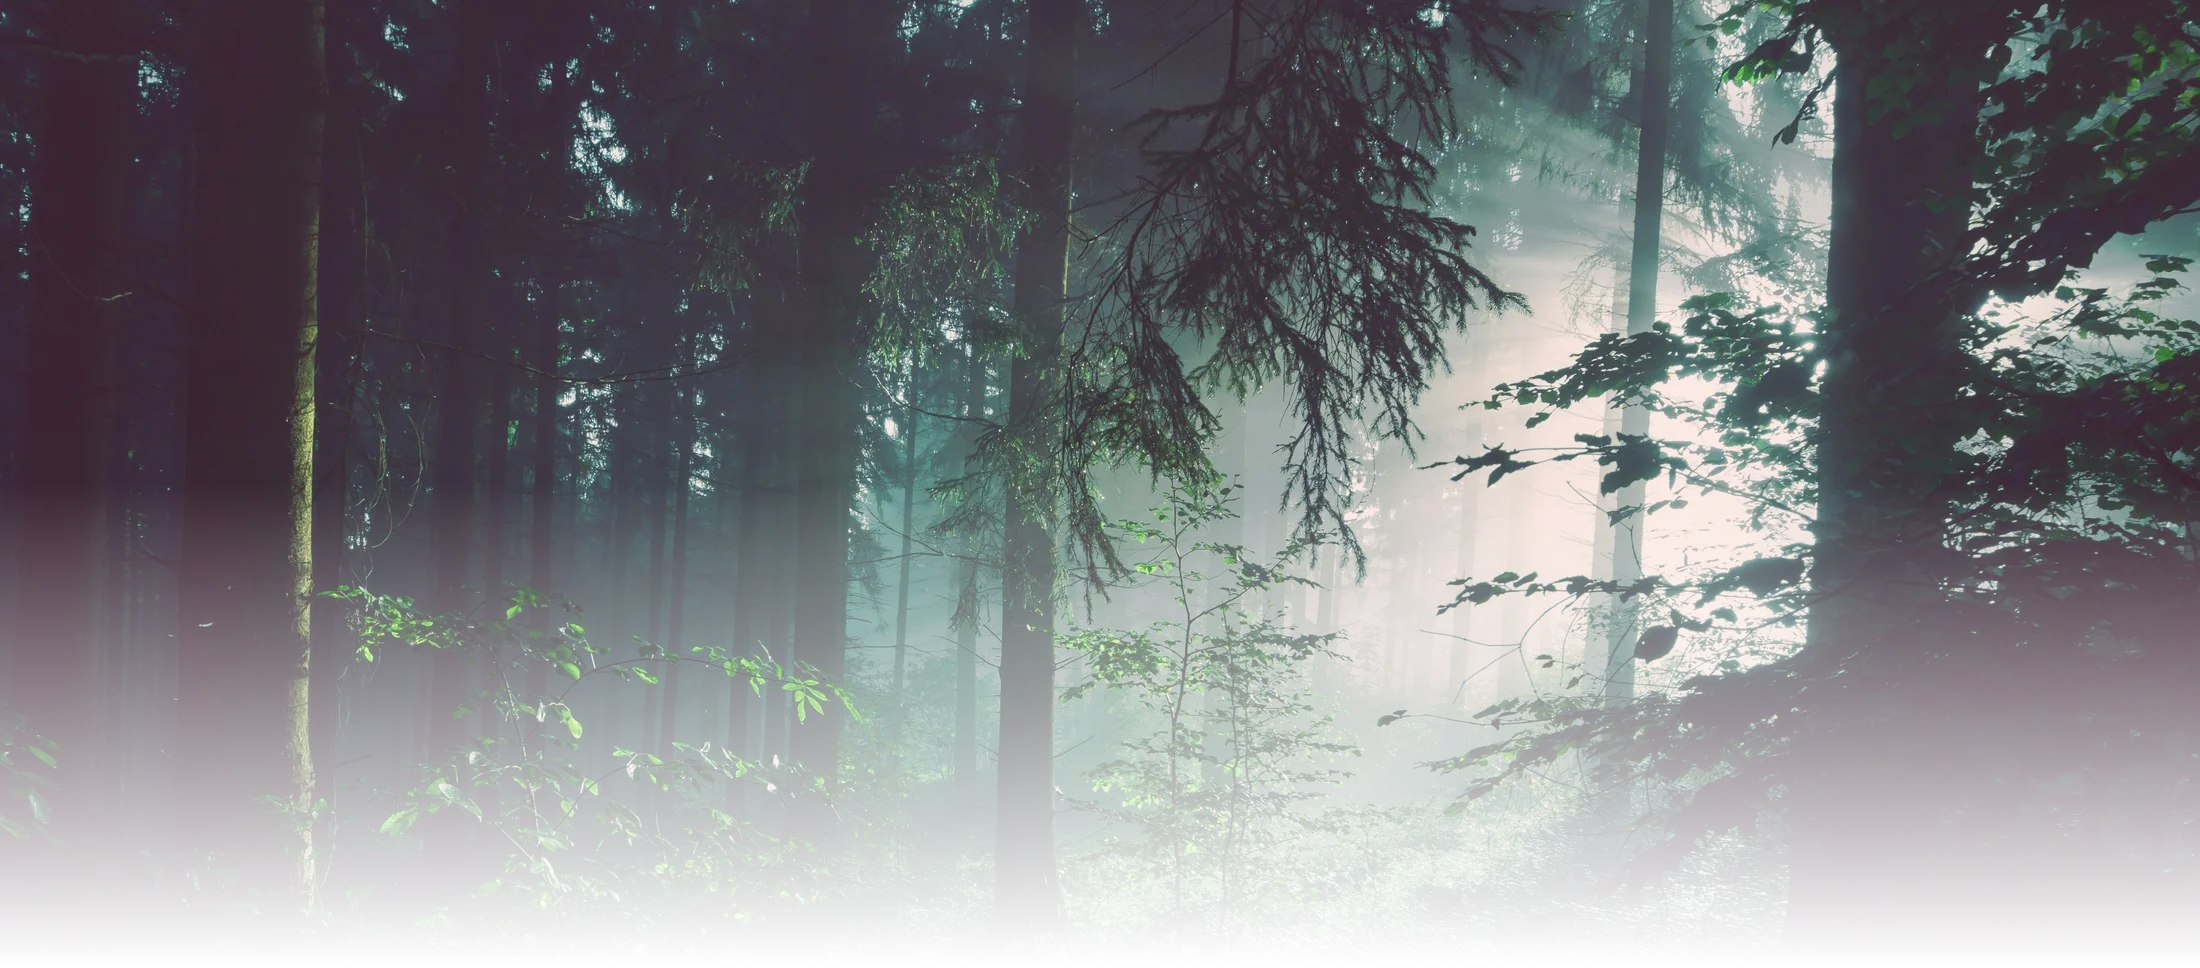
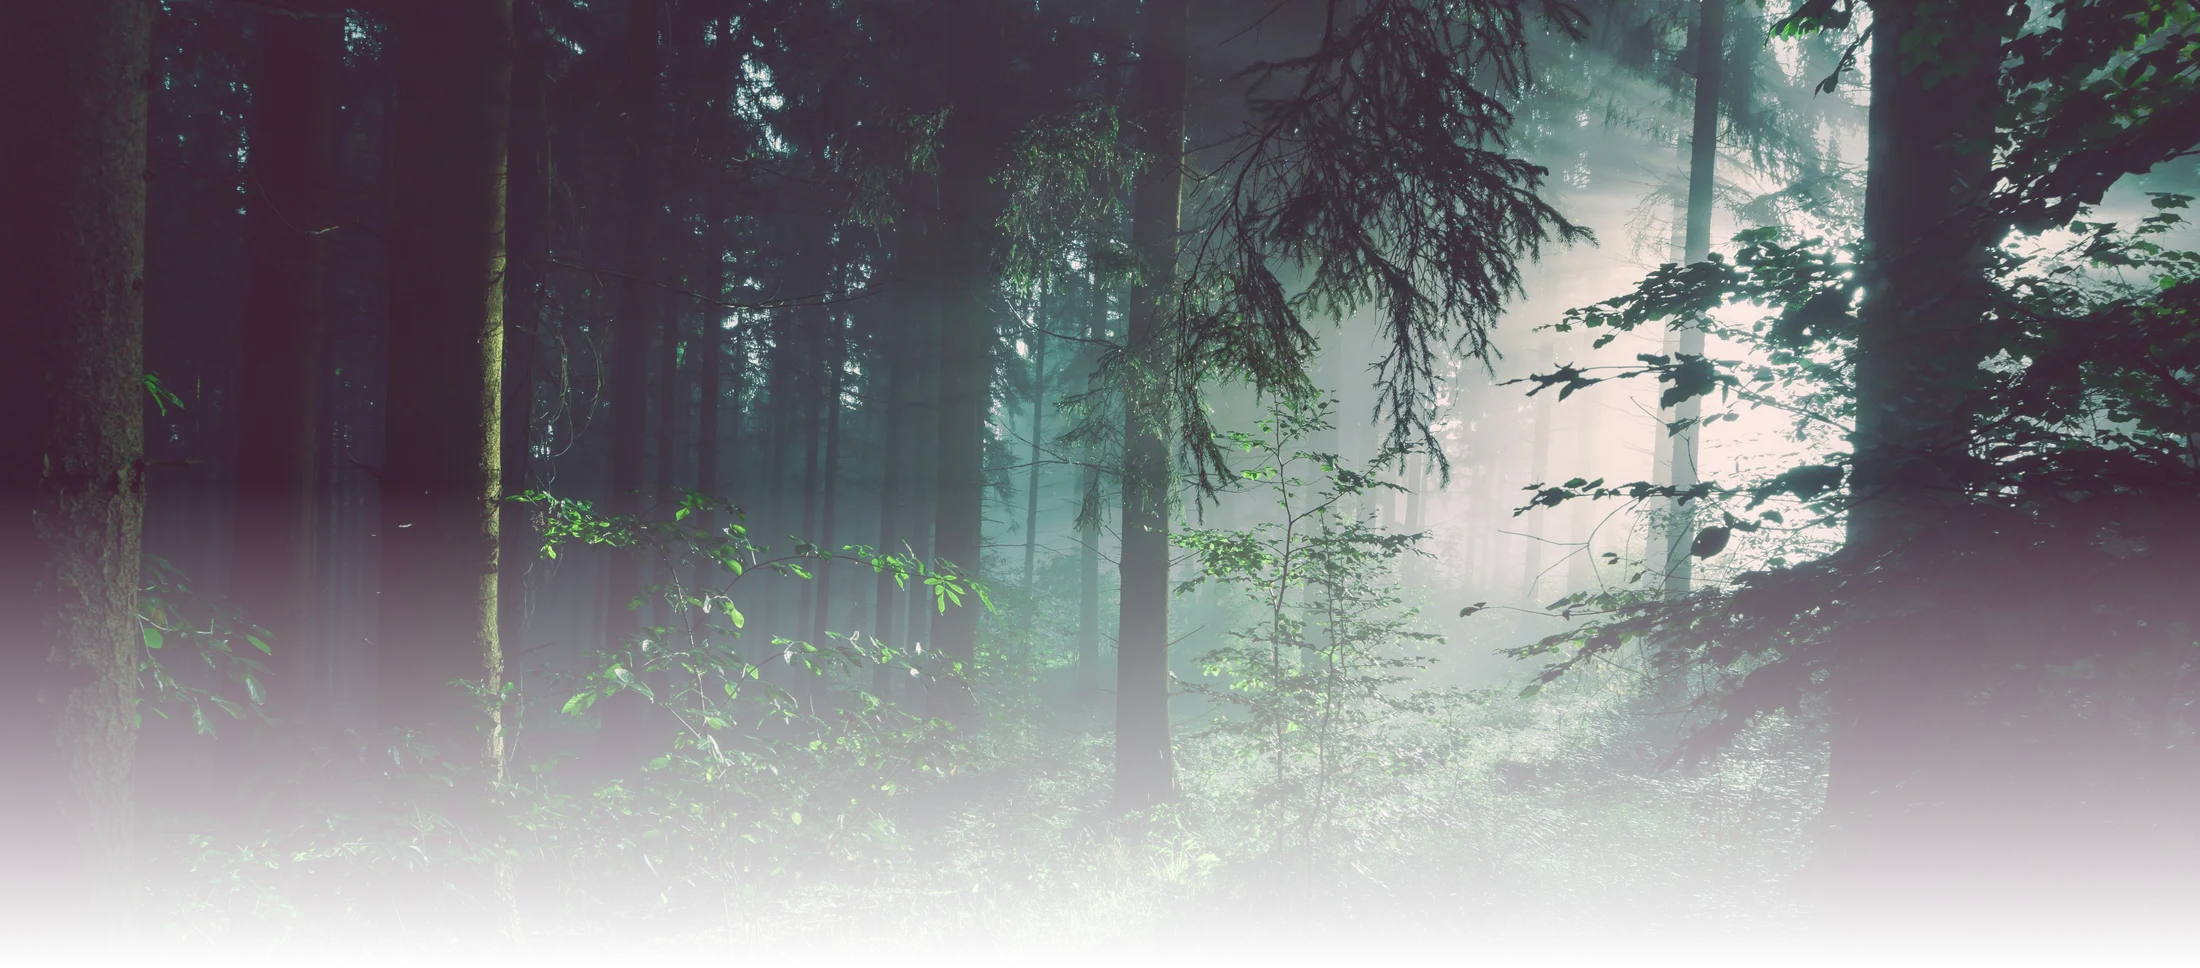
fix(brand): the forest photo in v1's header metrics
miskas_v3_fade.webp now matches the old miskas_fade_10.webp exactly: 2200x968,
opaque to the middle row, then a linear fade to transparent that the list
covers, so app/index.tsx shows it just as it showed the old one. The crop is
the photo's full width (the least zoom that shape allows), from the canopy
down.

Claude-Session: https://claude.ai/code/session_017s8egWMJi8eBEq9RKHtkQk

diff --git a/scripts/generate-brand-assets.ts b/scripts/generate-brand-assets.ts
@@ -170,10 +170,12 @@ async function main() {
       .toFile(`${images}/wordmark_${name}.png`);
   }
 
-  // The home screen's forest: Sebastian Unrau's photo (miskas_v3.jpg), cropped so the darker canopy sits behind
-  // the logo and the sun rays to its right (phones show the middle ~45%), fading out over its lower half into the
-  // backdrop
+  // The home screen's forest: Sebastian Unrau's photo (miskas_v3.jpg) in v1's miskas_fade_10.webp metrics, so
+  // app/index.tsx shows it the same way: 2200x968, opaque down to the middle, then a linear fade to transparent at
+  // the bottom, which the list covers. The full width of the frame (the photo is a close-up, so as little zoom as
+  // the shape allows), from the canopy down, so the dark treetops sit behind the logo
   const [fw, fh] = [2200, 968];
+  const forestTop = 400;
   const photo = `${images}/miskas_v3.jpg`;
   const fade = Buffer.from(
     `<svg xmlns="http://www.w3.org/2000/svg" width="${fw}" height="${fh}"><defs><linearGradient id="f" x2="0" y2="1">` +
@@ -181,7 +183,7 @@ async function main() {
       `<rect width="${fw}" height="${fh}" fill="url(#f)"/></svg>`
   );
   await sharp(photo)
-    .extract({ left: 600, top: 300, width: 5400, height: Math.round((5400 * fh) / fw) })
+    .extract({ left: 0, top: forestTop, width: 6000, height: Math.round((6000 * fh) / fw) })
     .resize(fw, fh)
     .ensureAlpha()
     .composite([{ input: fade, blend: 'dest-in' }])
